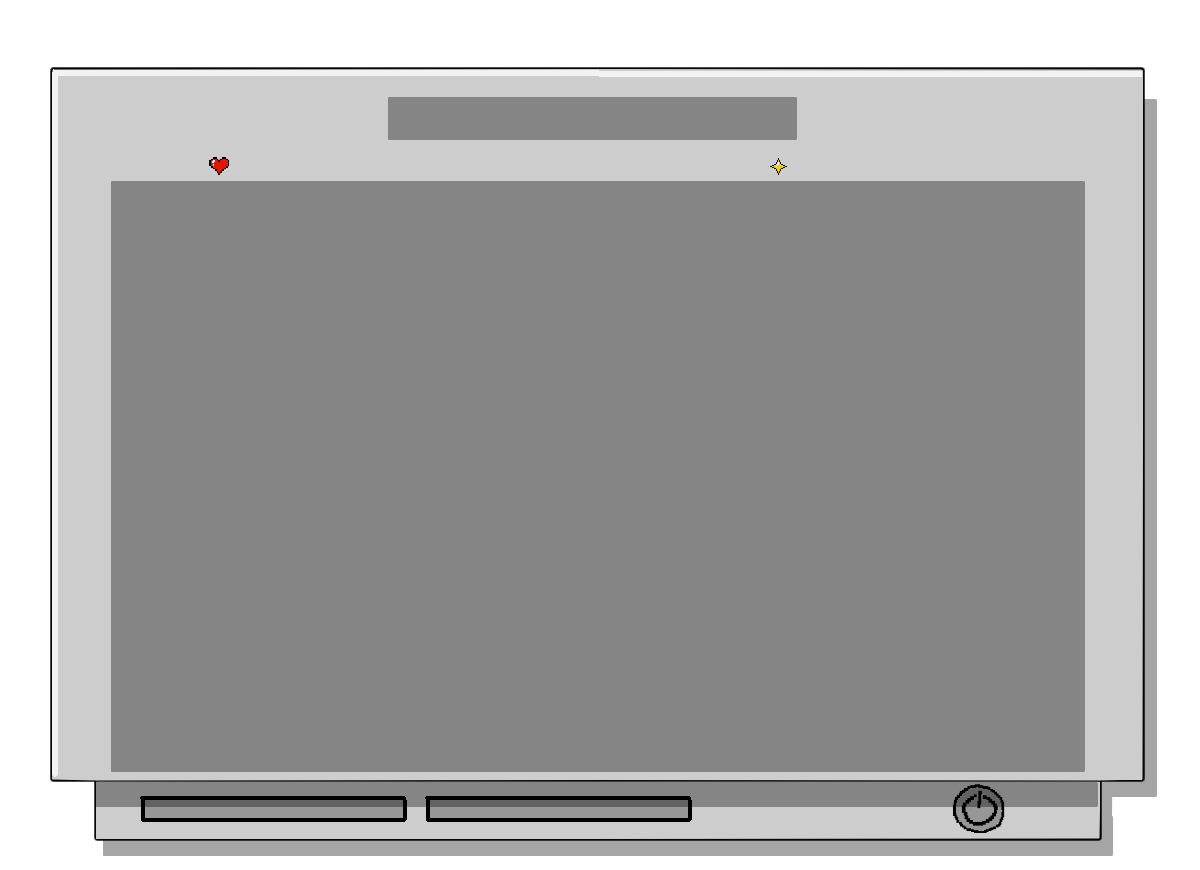
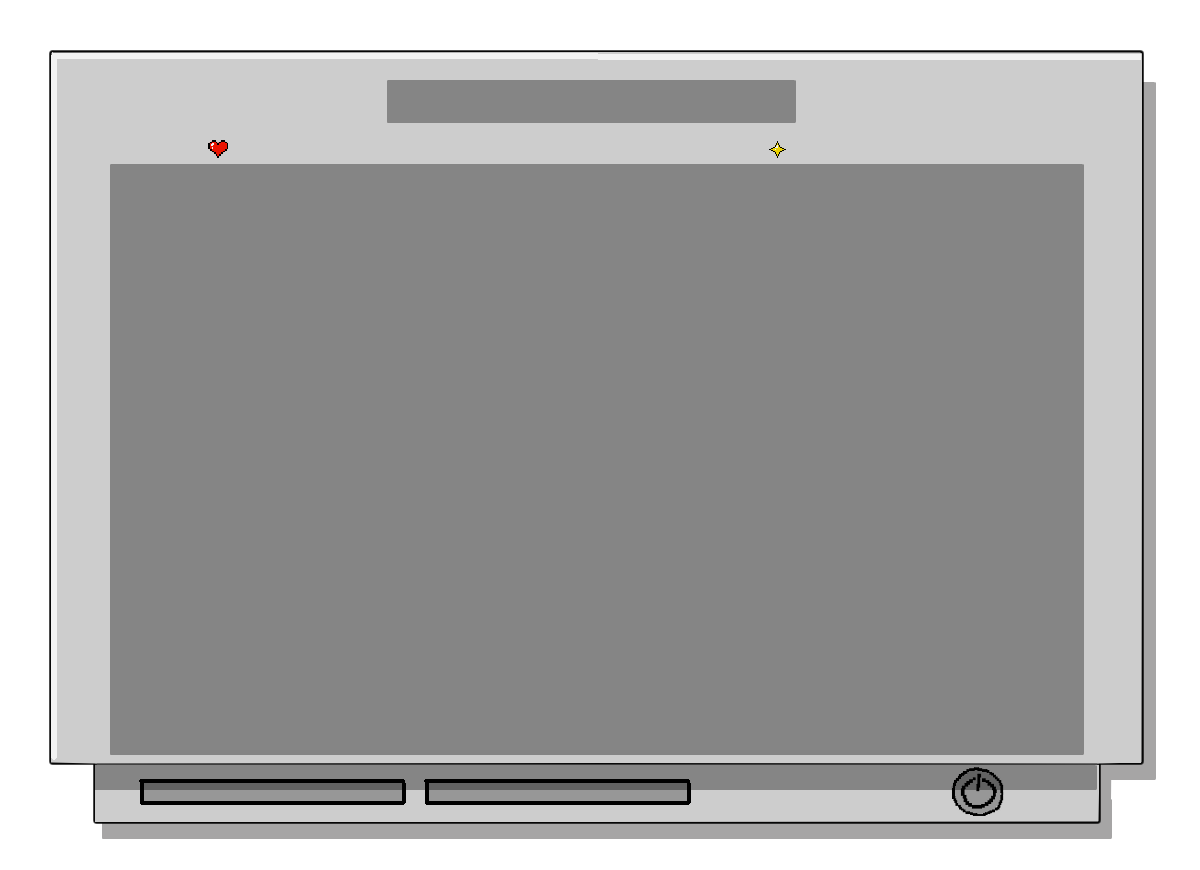
css 파일들 수정
요소들 배치나 크기 수정했습니다.

Changed region(s): [[0.0308, 0.031, 0.9867, 0.9931]]

diff --git a/src/css/score.css b/src/css/score.css
@@ -1,4 +1,6 @@
 body {
+	min-width: 1280px;
+	min-height: 960px;
 	font-family: 'DungGeunMo', sans-serif;
 }
 
@@ -37,7 +39,7 @@ body {
 
   #left_character {
 	position: absolute;
-	left: 50px; /* 왼쪽 캐릭터 이미지의 왼쪽 여백 */
+	/* left: 50px; 왼쪽 캐릭터 이미지의 왼쪽 여백 */
 	top: 620px;
 	transform: translateY(-50%); /* 세로 중앙 정렬 */
 	overflow: hidden;
@@ -45,7 +47,7 @@ body {
 
   #right_character {
 	position: absolute;
-	right: 50px; /* 오른쪽 캐릭터 이미지의 오른쪽 여백 */
+	/* right: 50px; 오른쪽 캐릭터 이미지의 오른쪽 여백 */
 	top: 620px;
 	transform: translateY(-50%); /* 세로 중앙 정렬 */
 	overflow: hidden;

diff --git a/src/css/main.css b/src/css/main.css
@@ -1,4 +1,6 @@
 body {
+	min-width: 1280px;
+	min-height: 960px;
 	font-family: 'DungGeunMo', sans-serif;
 }
 
@@ -41,17 +43,15 @@ body {
 
   #left_character {
 	position: absolute;
-	left: 50px; /* 왼쪽 캐릭터 이미지의 왼쪽 여백 */
-	top: 650px;
-	transform: translateY(-50%); /* 세로 중앙 정렬 */
+	top: 35%;
+	/* transform: translateY(-50%); */
 	overflow: hidden;
   }
 
   #right_character {
 	position: absolute;
-	right: 50px; /* 오른쪽 캐릭터 이미지의 오른쪽 여백 */
-	top: 650px;
-	transform: translateY(-50%); /* 세로 중앙 정렬 */
+	top: 35%;
+	/*transform: translateY(-50%);*/
 	overflow: hidden;
   }
 

diff --git a/src/css/phase1.css b/src/css/phase1.css
@@ -1,4 +1,6 @@
 body {
+  min-width: 1280px;
+	min-height: 960px;
 	font-family: 'DungGeunMo', sans-serif;
   height: 100vh;
 }
@@ -25,10 +27,11 @@ body {
 
 #maingame {
 	width: 960px;
-	margin: 0 auto;
-	position: relative;
+	margin: 0;
+  position: absolute;
 	top: 50%;
-	transform: translateY(-50%);
+  left: 50%;
+  transform: translate(-50%, -50%);
 }
 
 li {
